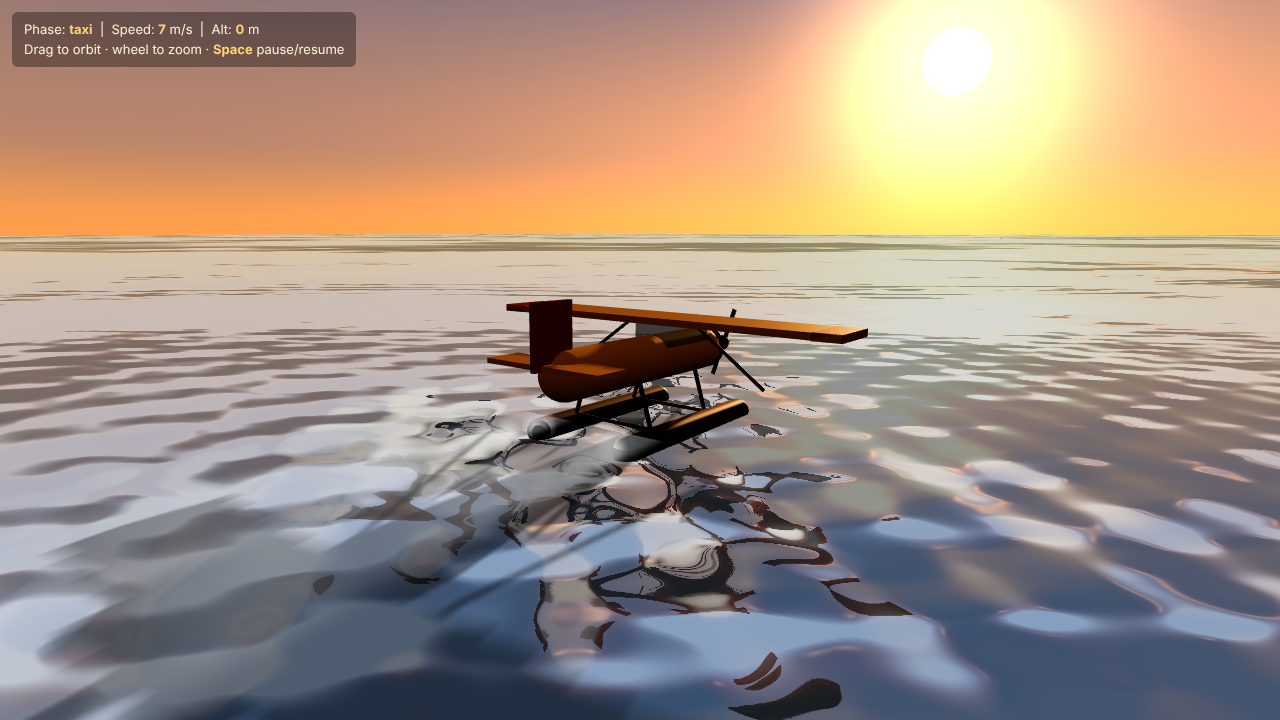
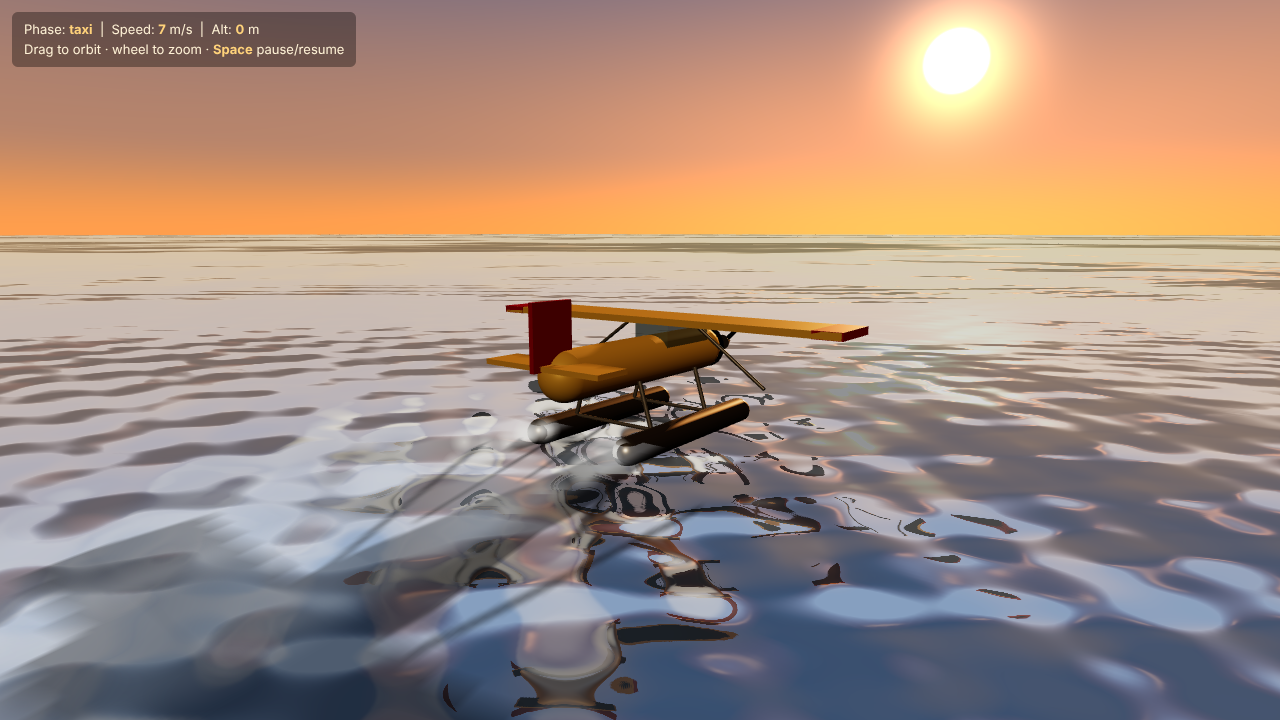
A iter 6: fill light; final judge pass 0 errors; cost.json + iteration log

diff --git a/runs/claude-code/A/index.html b/runs/claude-code/A/index.html
@@ -85,8 +85,8 @@ const sky = new THREE.Mesh(
         col = mix(col, zenith, smoothstep(0.08, 0.6, h));
         float sd = max(dot(d, sunDir), 0.0);
         // wide warm haze around the sun, stronger near the horizon
-        col += vec3(1.0, 0.55, 0.22) * pow(sd, 6.0) * 0.45 * (1.0 - smoothstep(0.0, 0.5, h));
-        col += vec3(1.0, 0.75, 0.45) * pow(sd, 90.0) * 0.9;
+        col += vec3(1.0, 0.55, 0.22) * pow(sd, 8.0) * 0.35 * (1.0 - smoothstep(0.0, 0.5, h));
+        col += vec3(1.0, 0.75, 0.45) * pow(sd, 400.0) * 0.8;
         col += vec3(1.0, 0.92, 0.75) * smoothstep(0.9992, 0.9996, sd) * 1.4;   // sun disk
         col = mix(vec3(0.05, 0.08, 0.12), col, smoothstep(-0.2, 0.0, d.y));    // below the horizon
         gl_FragColor = vec4(col, 1.0);
@@ -117,8 +117,12 @@ sunLight.shadow.normalBias = 0.05;
 scene.add(sunLight);
 scene.add(sunLight.target);
 
-const hemi = new THREE.HemisphereLight(0xff9a55, 0x18283a, 0.6);
+const hemi = new THREE.HemisphereLight(0xffb070, 0x1a2a3c, 0.9);
 scene.add(hemi);
+// soft fill from the camera side so the backlit plane keeps its colour
+const fill = new THREE.DirectionalLight(0xffd6a0, 0.9);
+fill.position.set(-1, 0.6, 0.4);
+scene.add(fill);
 
 // ---------- procedural water normal map ----------
 function makeWaterNormals(size = 256) {

diff --git a/runs/claude-code/A/iterations.md b/runs/claude-code/A/iterations.md
@@ -10,3 +10,8 @@ Input: prompts/A.md verbatim. Judge: `node tools/check.mjs runs/claude-code/A/in
 | 3 | 10:42 | Radial-gradient sprite for spray, emission sub-stepped along travel, ribbon raised above crests, dt clamp 0.1, sun azimuth into frame | yes | 0 | scratch A3-* | Lift-off/climb/bank confirmed visually. Ribbon shows comb aliasing (streak freq used sample index). Shadow still invisible at 6° sun: test copy at 35° proved the shadow pipeline works, so it's elongation+faintness. (folded into iter 5 commit) |
 | 4 | 10:44 | Sun elevation 14°, Sky turbidity/rayleigh/mie pushed for warmth, ribbon streak fixed | yes | 0 | scratch A4/* | Shadow now readable from above. But sky still pale white/grey from every angle; 3-variant parameter sweep of Sky addon (grid.png) — all grey. Sky addon can't give "golden" at >10° elevation without blowing out. (folded into iter 5 commit) |
 | 5 | 10:47 | Replaced Sky addon with own gradient dome ShaderMaterial (sun disk + warm haze), PMREM env from it, exposure 0.75 | yes | 0 | t0/t3s/t8s, scratch A5-pair.png | First frame that actually reads as golden hour: orange horizon, sun disk, plane shadow and foam wake visible, plane backlit. Glow radius too large. |
+| 6 | 10:50 | Sun glow radius reduced, hemisphere fill 0.9 + camera-side fill light so the backlit plane keeps its yellow | yes | 0 | t0/t3s/t8s (final) | Late-phase probe (50–76 s real ≈ descend→flare→touchdown→rollout) all correct; wake only appears once floats touch. Checklist 6/6 by my own judgement → stop. |
+
+**Stop reason:** checklist complete (own judgement; human column left blank in RESULTS.md). Wall-clock 10:32:51 → 10:50:40 ≈ 18 min.
+
+**Where it got stuck:** (1) never on "does it run" — every iteration had 0 console errors; (2) all six iterations were visual: nearest-filtered normal map, invisible wake/spray, shadow invisible at low sun, and above all the Sky addon refusing to look "golden" at a sun elevation high enough for the shadow to read. The scaffold (Water.js) helped; the other scaffold (Sky.js) was abandoned in iter 5. (3) Judge environment artefact: headless SwiftShader renders at ~5.7 fps, so judge screenshots at t=8 s show only ~3–4 s of simulated time; a separate probe script was needed to see later phases.
